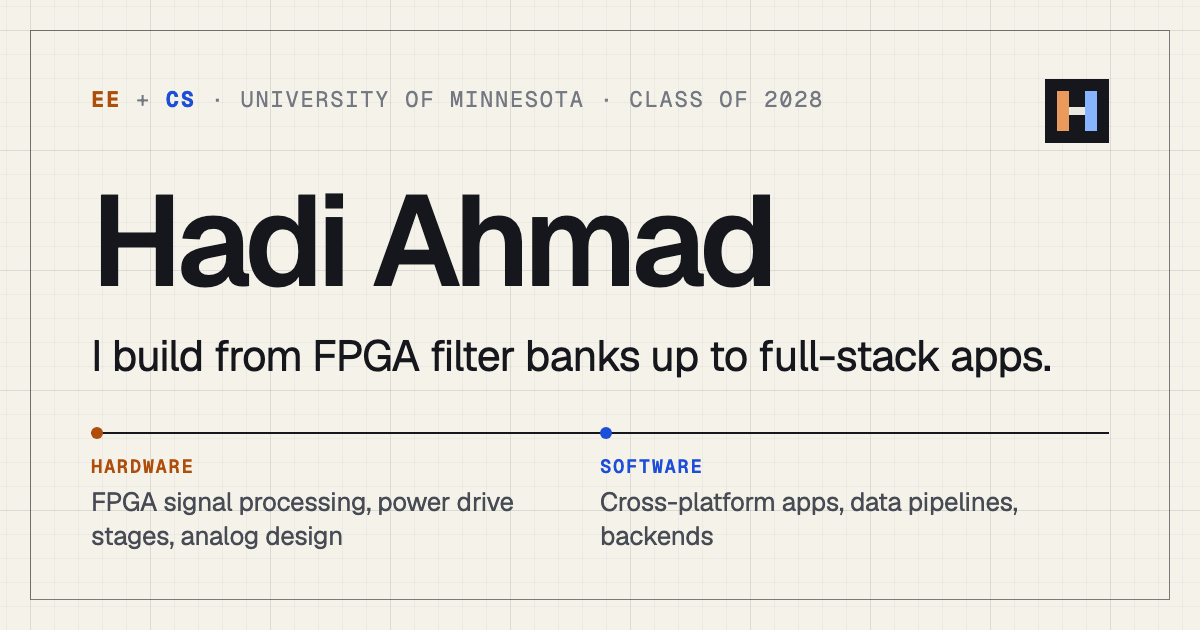
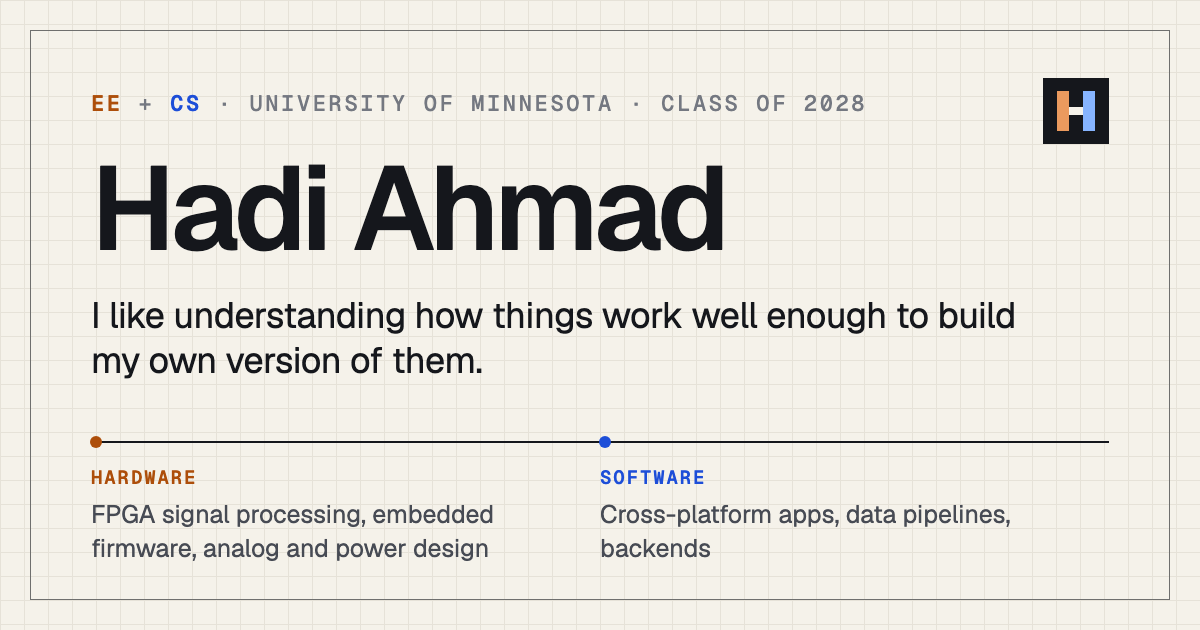
content: new hero line, lead with what stands out
- Hero headline is now "I like understanding how things work well
  enough to build my own version of them", with a line naming the
  three current builds. Drops "FPGA filter banks up to full-stack apps"
  from the hero, SEO description, share-image alt and og.png.
- Spec strip shows five different projects instead of two from one.
- Experience moves above Education; nav and zone letters follow.
- Tile order puts PlanUMN beside the gesture wand and Kintsugi ahead
  of the analog amplifier.

diff --git a/src/data/profile.ts b/src/data/profile.ts
@@ -22,9 +22,9 @@ export const site = {
 export const seo = {
   title: "Hadi Ahmad · EE + CS at the University of Minnesota",
   description:
-    "Hadi Ahmad studies electrical engineering and computer science at the University of Minnesota, building from FPGA filter banks up to full-stack apps.",
+    "Hadi Ahmad studies electrical engineering and computer science at the University of Minnesota. Projects include an FPGA neurofeedback interface, an ultrasonic wafer cleaner and a campus study-room finder.",
   hardware:
-    "Hardware projects by Hadi Ahmad: a real-time FPGA filter bank for EEG neurofeedback, an 80 kHz ultrasonic wafer cleaner and an LM741 audio amplifier.",
+    "Hardware projects by Hadi Ahmad: a real-time FPGA filter bank for EEG neurofeedback, an 80 kHz ultrasonic wafer cleaner and a gesture classifier on a PIC24 microcontroller.",
   software:
     "Software projects by Hadi Ahmad: a campus study-room finder built in 72 hours, a graduation planner used by 80+ students, and an AI reminder system.",
   topics: [
@@ -40,22 +40,23 @@ export const seo = {
   ],
 };
 
-export const hero: Record<Lens, { kicker: string; positioning: string }> = {
+export const hero: Record<Lens, { kicker: string; positioning: string; sub: string }> = {
   all: {
     kicker: "University of Minnesota · Class of 2028",
-    positioning: "I build from FPGA filter banks up to full-stack apps.",
+    positioning: "I like understanding how things work well enough to build my own version of them.",
+    sub: "Right now that means an FPGA neurofeedback interface, an 80 kHz ultrasonic wafer cleaner and a gesture classifier on a 16-bit microcontroller.",
   },
   hw: {
     kicker: "Hardware view · University of Minnesota · Class of 2028",
-    positioning: "FPGA signal processing, power drive stages and analog design.",
+    positioning: "FPGA signal processing, embedded firmware, analog and power design.",
+    sub: "I like understanding how things work well enough to build my own version of them.",
   },
   sw: {
     kicker: "Software view · University of Minnesota · Class of 2028",
     positioning: "Cross-platform apps, data pipelines and the backends behind them.",
+    sub: "I like understanding how things work well enough to build my own version of them.",
   },
 };
-
-export const tagline = "I like understanding how things work well enough to build my own version of them.";
 
 export type Spec = { value: string; label: string; href: string; source: string };
 
@@ -70,15 +71,15 @@ const gpa: Spec = {
 export const specs: Record<Lens, Spec[]> = {
   all: [
     { value: "32", label: "FIR filters running in parallel on one FPGA", href: "/projects/neural-frequency", source: "Neural Frequency" },
-    { value: "~88%", label: "less BLE power draw from a custom packet protocol", href: "/projects/neural-frequency", source: "Neural Frequency" },
     { value: "574", label: "campus rooms live after a 72-hour build", href: "/projects/roominate", source: "Roominate" },
+    { value: "180 W", label: "of piezo transducers on a custom half-bridge driver", href: "/projects/wafer-cleaner", source: "Wafer Cleaner" },
     { value: "80+", label: "students using PlanUMN before release", href: "/projects/planumn", source: "PlanUMN" },
     gpa,
   ],
   hw: [
     { value: "32", label: "FIR filters running in parallel on one FPGA", href: "/projects/neural-frequency", source: "Neural Frequency" },
     { value: "~88%", label: "less BLE power draw from a custom packet protocol", href: "/projects/neural-frequency", source: "Neural Frequency" },
-    { value: "0.5 ms", label: "guardband held over BLE's 7.5 ms floor", href: "/projects/neural-frequency", source: "Neural Frequency" },
+    { value: "3.0 KB", label: "of RAM for an on-device gesture classifier", href: "/projects/gesture-wand", source: "Gesture Wand" },
     { value: "180 W", label: "of piezo transducers on a custom half-bridge driver", href: "/projects/wafer-cleaner", source: "Wafer Cleaner" },
     gpa,
   ],

diff --git a/src/app/datasheet/page.tsx b/src/app/datasheet/page.tsx
@@ -6,7 +6,7 @@ import PrintButton from "@/components/PrintButton";
 import SectionHeading from "@/components/SectionHeading";
 import Sheet, { SHEET_COUNT } from "@/components/Sheet";
 import { characteristics, orderingSignals, part } from "@/data/datasheet";
-import { contacts, coursework, education, hero, roles, site, skillGroups, specs, tagline } from "@/data/profile";
+import { contacts, coursework, education, hero, roles, site, skillGroups, specs } from "@/data/profile";
 import { getProject, projects } from "@/data/projects";
 import { pageMetadata } from "@/lib/seo";
 
@@ -71,7 +71,7 @@ export default function DatasheetPage() {
           <section className="pt-14 lg:pt-0 print:pt-0">
             <SectionHeading zone="B" title="Description" />
             <p className="text-lg leading-relaxed print:text-base">
-              {hero.all.positioning} {tagline}
+              {hero.all.positioning} {hero.all.sub}
             </p>
             <dl className="mt-5 border-b border-rule text-sm print:mt-3">
               <div className={`grid grid-cols-[5.5rem_1fr] items-baseline gap-x-4 ${ROW}`}>

diff --git a/src/components/Hero.tsx b/src/components/Hero.tsx
@@ -1,9 +1,9 @@
 import Link from "next/link";
 import type { Lens } from "@/data/projects";
-import { hero, site, specs, tagline } from "@/data/profile";
+import { hero, site, specs } from "@/data/profile";
 
 export default function Hero({ lens }: { lens: Lens }) {
-  const { kicker, positioning } = hero[lens];
+  const { kicker, positioning, sub } = hero[lens];
 
   return (
     <section className="pt-12 sm:pt-16 lg:pt-20">
@@ -16,7 +16,7 @@ export default function Hero({ lens }: { lens: Lens }) {
       </p>
       <h1 className="mt-5 text-5xl font-semibold tracking-[-0.035em] sm:text-6xl lg:text-7xl">{site.name}</h1>
       <p className="mt-5 max-w-3xl text-2xl leading-snug tracking-tight text-ink sm:text-3xl">{positioning}</p>
-      <p className="mt-4 max-w-2xl text-base text-ink-2 sm:text-lg">{tagline}</p>
+      <p className="mt-4 max-w-2xl text-base text-ink-2 sm:text-lg">{sub}</p>
 
       <div className="mt-8 flex flex-wrap gap-2.5">
         <a href={site.resume} target="_blank" rel="noopener noreferrer" className="btn btn-solid">

diff --git a/src/data/projects.ts b/src/data/projects.ts
@@ -592,7 +592,7 @@ export const projects: Project[] = [
 
 // Tile order per lens; the first two positions get the large tiles
 const ORDER: Record<Lens, string[]> = {
-  all: ["neural-frequency", "roominate", "gesture-wand", "wafer-cleaner", "planumn", "jiko", "analog-audio", "kintsugi", "gene-expression", "aidah-dev"],
+  all: ["neural-frequency", "roominate", "gesture-wand", "planumn", "wafer-cleaner", "jiko", "kintsugi", "analog-audio", "gene-expression", "aidah-dev"],
   hw: ["neural-frequency", "gesture-wand", "wafer-cleaner", "analog-audio", "roominate", "planumn", "jiko", "kintsugi", "gene-expression", "aidah-dev"],
   sw: ["roominate", "planumn", "jiko", "kintsugi", "neural-frequency", "gesture-wand", "gene-expression", "aidah-dev", "wafer-cleaner", "analog-audio"],
 };

diff --git a/src/components/Education.tsx b/src/components/Education.tsx
@@ -6,7 +6,7 @@ import SectionHeading from "./SectionHeading";
 export default function Education({ lens }: { lens: Lens }) {
   return (
     <section id="education" className="pt-20 lg:pt-28">
-      <SectionHeading zone="B" title="Education" meta={education.date} />
+      <SectionHeading zone="C" title="Education" meta={education.date} />
       <div className="flex flex-col gap-x-6 sm:flex-row sm:items-baseline sm:justify-between">
         <h3 className="text-2xl font-semibold tracking-tight">{education.school}</h3>
         <span className="label shrink-0">{education.location}</span>

diff --git a/src/lib/seo.ts b/src/lib/seo.ts
@@ -5,7 +5,7 @@ const shareImage = {
   url: "/og.png",
   width: 1200,
   height: 630,
-  alt: "Hadi Ahmad, EE + CS at the University of Minnesota. I build from FPGA filter banks up to full-stack apps.",
+  alt: "Hadi Ahmad, EE + CS at the University of Minnesota. I like understanding how things work well enough to build my own version of them.",
 };
 
 // A page-level openGraph or twitter object replaces the root one wholesale, share image included,

diff --git a/src/components/Experience.tsx b/src/components/Experience.tsx
@@ -4,7 +4,7 @@ import SectionHeading from "./SectionHeading";
 export default function Experience() {
   return (
     <section id="experience" className="pt-20 lg:pt-28">
-      <SectionHeading zone="C" title="Experience" />
+      <SectionHeading zone="B" title="Experience" />
       <ul className="border-b border-rule">
         {roles.map((role) => (
           <li key={role.title} className="spec-row">

diff --git a/src/components/SiteHeader.tsx b/src/components/SiteHeader.tsx
@@ -11,8 +11,8 @@ const STORAGE_KEY = "lens";
 
 const sections = [
   { id: "projects", label: "Projects" },
-  { id: "education", label: "Education" },
   { id: "experience", label: "Experience" },
+  { id: "education", label: "Education" },
   { id: "skills", label: "Skills" },
   { id: "contact", label: "Contact" },
 ];

diff --git a/src/components/Home.tsx b/src/components/Home.tsx
@@ -15,8 +15,8 @@ export default function Home({ lens }: { lens: Lens }) {
       <ProfileJsonLd />
       <Hero lens={lens} />
       <ProjectGrid lens={lens} />
-      <Education lens={lens} />
       <Experience />
+      <Education lens={lens} />
       <Skills lens={lens} />
       <About />
       <Contact />
